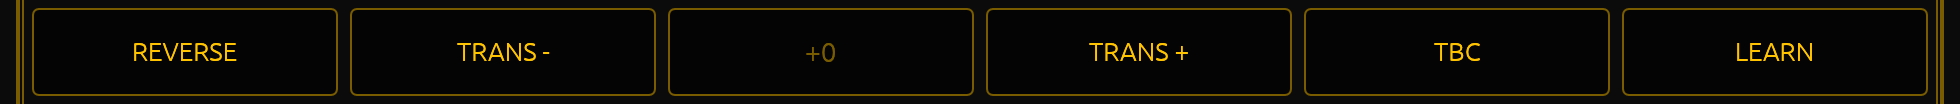
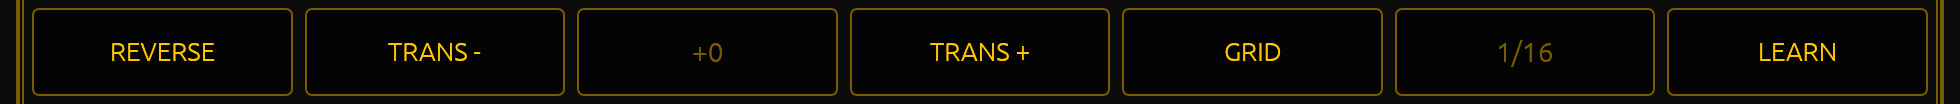
docs: the grid, and the demos that show it off

diff --git a/docs/guide/src/23-pattern-grids.md b/docs/guide/src/23-pattern-grids.md
@@ -1,0 +1,66 @@
+# Pattern grids
+
+A pattern is **one bar of 4/4** — and a bar can be divided three ways. Which division a pattern is on is its **grid**,
+and the grid belongs to the pattern: it is saved with it, copied with it and banked with it.
+
+| Grid | Steps to the bar | What it is for |
+|---|---|---|
+| `1/16` | 16 | sixteenths: the line everything before this existed on |
+| `1/32` | 32 | thirty-seconds: twice as fine, for fast rolls and broken slides |
+| `1/8T` | 12 | eighth-note triplets, which sit *off* the sixteenth grid rather than inside it |
+
+All three are **the same bar**: sixteen sixteenths, thirty-two thirty-seconds and twelve eighth-triplets last exactly as
+long as each other. That is what keeps every machine in a rack on the same bar — a `1/8T` line and a `1/16` drum machine
+still land their downbeats together, and a device joining a running rack still waits for the same bar.
+
+## The key
+
+
+
+In the transport row, beside the transpose pair: **`GRID`** and, next to it, the grid the pattern is on — `1/16`, `1/32`
+or `1/8T`.
+
+Press `GRID` to cycle the three. It is a **pattern edit**, not a transport setting: the pattern changes at once, the
+row changes shape with it — sixteen keys, or twelve, or thirty-two — and the session is marked unsaved, because the grid
+is part of the pattern and travels into the save file and the clipboard with it. The readout is dim at `1/16` and lit
+otherwise, so "this pattern is not on the plain grid" is visible at a glance.
+
+## What a press does to the steps outside the new bar
+
+A press that makes the bar **shorter** rests whatever falls outside it. Nothing is kept in hiding: a step the bar cannot
+hold is a rest the moment the bar narrows, and the status line says what it cost —
+
+```text
+32 TO 12 STEPS, 3 CLEARED
+```
+
+— the bar before and after, and how many of the steps that fell outside **had sound** in them. A press that loses nothing
+just says the length (`16 TO 32 STEPS`).
+
+A press that makes the bar **longer** adds steps at the end, all rests. The row grows with it, so the new steps have keys
+to land on.
+
+## The row and the beat
+
+![The row on a 1/32 pattern: thirty-two keys](img/35-grid.png)
+
+The row draws one key per step of the pattern's own grid, and the beat framing follows the grid: every fourth key is
+outlined at `1/16`, every eighth at `1/32`, every third at `1/8T` — a beat is a quarter note at every one of them.
+
+The drum machine's grid does the same with columns ([`22-the-drum-machine`](22-the-drum-machine.md)): a `1/32` pattern is
+thirty-two columns wide and a `1/8T` one twelve, framed on the beats of its own grid.
+
+## Elsewhere
+
+- **`CLEAR` keeps the grid.** It empties the bar; it does not leave it. A `1/32` pattern stays thirty-two steps long.
+- **`RANDOM` keeps the grid**, and rolls only the steps the bar holds.
+- **The bank and the song keep each pattern's grid**, pattern by pattern, so one bank can hold a sixteenth line next to a
+  triplet one.
+- **The clipboard carries it**: a copied pattern takes its grid with it, which is why a build older than this one refuses
+  a copied pattern instead of reading half of it.
+- **Shuffle leans whatever grid you are on.** Even steps long, odd steps short, the pair still exactly two steps — so the
+  bar does not change length at any swing setting, at any grid ([`10-performance-row`](10-performance-row.md)).
+- **A pattern change from a controller still lands at the bar line**, at every grid ([`11-the-bank`](11-the-bank.md)).
+
+Two of the demos are on the other grids — **Acid Jazz** on `1/8T`, **Fast Acid** on `1/32` — so you can hear what they are
+for before writing one ([`12-songs-and-demos`](12-songs-and-demos.md)).

diff --git a/docs/guide/src/img/README.md b/docs/guide/src/img/README.md
@@ -82,7 +82,7 @@ the build: the pictures are committed PNGs, and this note is what makes them rep
 | `img/running.png` | the transport running: `PLAY` lit in the tape deck, `PAUSE` dark | `space` from the first-sound state |
 | `img/help-card.png` | the help card over the panel: the arrows as two pairs (`shift+left` / `right` the pattern, `shift+up` / `down` the tempo, then the plain `left` / `right` and `up` / `down` for the face), the drum face's keys folded into those lines, and its two own lines — `h` and `l` / `b` / `p` | `F1` on the arrows round's session (below), pointer parked outside the window |
 | `img/settings-card.png` | the settings card, `MIDI IN` naming the port in use | `F2` |
-| `img/banks-card.png` | the bank browser, retaken this round: `NOW: New song - SAVED`, the five demo banks, `PATTERN BANKS` with one saved bank (`Easy`) and its `x`, the `bank name` field with `SAVE BANK`, `SONGS` with one saved song and its `x`, and `RACKS`' `SAVE RACK` / `LOAD RACK` | click `BANKS`; the bank row is a file seeded before the launch, because a first run has none |
+| `img/banks-card.png` | the bank browser, retaken for phase 6: `NOW: New song - UNSAVED`, the **seven** demo banks ending in `Acid Jazz` and `Fast Acid`, the `PATTERN BANKS` field with `SAVE BANK`, empty `SONGS`, and `RACKS`' `SAVE RACK` / `LOAD RACK` | click `BANKS` on a first run |
 | `img/device-card.png` | the device card for `ACID 1`: `COLOUR BLACK`, one port, `MUTE OFF` | `F3` |
 | `img/picker.png` | the picker: `ADD DEVICE` with the `ACID` and `DRUMS` rows and `CLOSE`, and nothing under them — retaken in the whole-rack round, when the line that said names and extra devices were not saved went away | click `+` at the strip's right end; park the pointer outside the window before grabbing |
 | `img/theme-list.png` | the card for `ACID 1` with the theme list open over it, the dot on `BLACK`, eleven of the twenty-two rows and the scroll thumb | `F3`; click `COLOUR`; park the pointer away from the knobs before grabbing, or their tooltip lands in the picture |
@@ -96,7 +96,8 @@ the build: the pictures are committed PNGs, and this note is what makes them rep
 | `img/knob-row.png` | the seven tone knobs and their captions | `-crop 1960x480+0+200` |
 | `img/step-row.png` | the sixteen step keys, their LEDs and their numbers | `-crop 1960x280+0+792` |
 | `img/switches.png` | `BANK PATTERN COPY PASTE SAVE BANKS STEP` | `-crop 1960x132+0+1056` |
-| `img/transport.png` | the row as the face draws it: `REVERSE TRANS - [+n] TRANS + TBC TBC LEARN` — the transport itself lives in the top band's tape deck | `-crop 1960x104+0+1192` |
+| `img/transport.png` | the row as the face draws it: `REVERSE TRANS - [+n] TRANS + GRID [1/16] LEARN` — the transport itself lives in the top band's tape deck | `-crop 1960x104+0+1192` |
+| `img/35-grid.png` | the step row on a `1/32` pattern: thirty-two keys, the notes and the corner numbers the player judged by eye | press `GRID` on a first run, then `-crop 1896x208+32+832` |
 
 The five band crops and `strip.png` come from the same session as `first-sound.png` (the strip crop from the two-device
 state, because one cell does not show what a strip is).

diff --git a/plans/phase 6/02-the-three-grids.md b/plans/phase 6/02-the-three-grids.md
@@ -369,3 +369,28 @@ command, as every other picture has.
   ride without the shuffle knob, and is the snare comping late enough to read as jazz; `Fast Acid`: do the
   thirty-second rolls land as a fill rather than a stutter, and does the kick on every eighth hold the bar together at
   152. A demo nobody has heard is not a demo, so this stays open until the player writes the two lines.
+
+- **Task 4 — the book, the pins and the pictures.** New page `23-pattern-grids` (what a grid is, the three and what each
+  is for, the `GRID` key and its readout, what a press costs outside the new bar and that the status line counts it,
+  the row and the beat, and the six things that keep a grid — `CLEAR`, `RANDOM`, the bank, the clipboard, shuffle, a
+  pattern change at the bar line), in `SUMMARY` under Part III after *Copying and pasting a pattern*, and
+  cross-referenced from `01`, `04`, `08`, `12` and `22`. The stale claims are edited in place: `01` (a bar of steps),
+  `04` and `20` (`GRID` and its readout instead of `TBC` twice), `08` (one bar divided by its grid), `09`/`10`/`16`
+  (the swing leans *the steps*, not sixteenths), `10` (`CLEAR` empties the bar's steps), `12` (seven demos, the two
+  new ones named), `18` (a device's own bar of steps), `21` (the clipboard carries the grid), `22` (the bar's steps).
+  `check.sh` gains `gone 'TBC'` and the pins `1/16`, `1/32`, `1/8T`, `GRID`, `Acid Jazz`, `Fast Acid`.
+  **Pictures:** `transport.png` retaken (the row now reads `REVERSE TRANS - +0 TRANS + GRID 1/16 LEARN` — no `TBC`),
+  `banks-card.png` retaken (seven demo rows, ending `Acid Jazz` and `Fast Acid`), and a new `35-grid.png` — the row at
+  thirty-two keys, `-crop 1896x208+32+832` from the layout's step band — with `img/README.md` updated for all three.
+  Taken on a fresh `Xvfb :86 -screen 0 2000x1400x24` (`getdisplaygeometry` → `2000 1400`, window `1960x1340`, a
+  throwaway `TAKKA_ACID_DATA_DIR`, pointer parked away from the panel). `./docs/guide/check.sh` → `guide: ok`.
+  **The manual check on the corner number, recorded as the plan asks.** `35-grid.png` was opened and read: at thirty-two
+  keys the corner number is legible at 8 pt (`1`..`32` along the bottom of each key, the two-digit values tight but
+  distinct) and the note sits above it in the key — a `C#5`-class label is the widest and still inside its key at the
+  design size; at the smallest window the keycap now shrinks the note to fit (Task 1's ruling), so the note is small
+  there but never spills. The player's own eye on the picture is the verdict this records toward, not a substitute for
+  it.
+  **Not taken: `35-drum-grid.png`.** It needs a second device (a drum machine) on a `1/8T` pattern, and the round's
+  picture budget went to the three that a stale face would have contradicted. `23-pattern-grids` therefore describes
+  the drum columns in prose and references none; the row's own picture carries the grid. Cost if wrong: the book has no
+  picture of twelve drum columns until the player takes one.

diff --git a/docs/guide/src/12-songs-and-demos.md b/docs/guide/src/12-songs-and-demos.md
@@ -5,12 +5,13 @@ keys along the bottom. It keeps three different amounts of work: a **song** is t
 patterns and the machine they were written on, and a **rack** is a document of its own that this build only has keys for.
 
 ## The four lists
-**`DEMO BANKS`** are the five that ship inside the app: **Slow Acid**, **Hard Techno Acid**, **Blues**, **Rock** and
-**Funk**. They are read-only — there is no way to overwrite one — and each is a patch plus eight patterns in `A1` to `A8`
+**`DEMO BANKS`** are the seven that ship inside the app: **Slow Acid**, **Hard Techno Acid**, **Blues**, **Rock**,
+**Funk**, **Acid Jazz** (a `1/8T` triplet line) and **Fast Acid** (a `1/32` one). They are read-only — there is no way to
+overwrite one — and each is a patch plus eight patterns in `A1` to `A8` ([`23-pattern-grids`](23-pattern-grids.md))
 ([`11-the-bank`](11-the-bank.md)). Clicking one loads it as a **new** song: named `New song`, not yet on disk — its name
 sits in amber until you save it, which is how the face says "not yet written".
 
-On a drum machine the same five rows load that demo's **drum bank** instead: eight grooves into `A1` to `A8`, at the
+On a drum machine the same seven rows load that demo's **drum bank** instead: eight grooves into `A1` to `A8`, at the
 demo's tempo and shuffle, with that machine's kit and the session's name left exactly as they were. The tempo is the whole
 rack's, though — one cell, every machine on it — so loading a bank also retunes the 303s beside it, and that tempo, unlike a
 second device's grooves, is what a save keeps. A drum bank is patterns, not a song — nothing is renamed and no sound is loaded with it.

diff --git a/docs/guide/src/08-writing-steps.md b/docs/guide/src/08-writing-steps.md
@@ -1,6 +1,7 @@
 # Writing steps
 
-A pattern is **sixteen steps**. Each step is either a rest or a note; the first row below is the step itself, and the
+A pattern is **one bar**, divided by its grid: sixteen steps at `1/16`, twelve at `1/8T`, thirty-two at `1/32`
+([`23-pattern-grids`](23-pattern-grids.md)). Each step is either a rest or a note; the first row below is the step itself, and the
 other five are what a note carries:
 
 | Part | What it is |
@@ -50,7 +51,7 @@ While you are in the step row, the **arrows** move the selection — `left` / `r
 selected note by a step — `enter` turns the step on and off, and `backspace`, while you are editing, empties it to a rest.
 
 **`STEP`** is the mode that makes typing a line quick: with it on, a key **down** writes the note to the selected step and
-the key **up** walks the selection on by one. Type a phrase left to right and the sixteen steps fill in behind your
+the key **up** walks the selection on by one. Type a phrase left to right and the bar's steps fill in behind your
 fingers. Press `STEP` again to stop walking.
 
 `CLEAR` empties the whole pattern, and it takes two clicks: the key reads `CLEAR?` for a few seconds in between, and any

diff --git a/docs/guide/src/16-sound-like-acid.md b/docs/guide/src/16-sound-like-acid.md
@@ -41,7 +41,7 @@ always cut off down, not resonance down.
 
 ## One line, not chords
 
-Sixteen steps, one voice. Write a phrase a bass player could play with one finger: a few notes, a couple of octave jumps,
+A bar of steps, one voice. Write a phrase a bass player could play with one finger: a few notes, a couple of octave jumps,
 a rest where you want the breath. Sparse lines carry the accent and the slide much better than busy ones; a step row full
 of notes is a step row with nowhere to put emphasis.
 
@@ -49,7 +49,7 @@ A good test: hum the line. If you can, it will sound like a bass line. If you ca
 
 ## Shuffle late, not early
 
-Swing leans the offbeat back. A little of it — the knob just off zero — is what makes a straight sixteenth line feel like
+Swing leans the offbeat back. A little of it — the knob just off zero — is what makes a straight line feel like
 it is being played rather than generated. Too much and the line limps; the groove has to stay a groove.
 
 And it is a seasoning, not an ingredient: start straight, and push `SHUFFLE` up when the line needs a lift, rather than

diff --git a/docs/guide/src/01-what-it-is.md b/docs/guide/src/01-what-it-is.md
@@ -3,8 +3,8 @@
 takka-acid is a bass synthesizer built to do one thing: play a single acid line, very well — and, in the same window, a drum
 machine to play it over.
 
-One device is **one voice** (the 303) or **sixteen of them** (the drums), and **sixteen steps**: that is the whole machine.
-You write a bar of up to sixteen steps, you shape the sound, and the same sixteen steps play it. The 303 is a line of
+One device is **one voice** (the 303) or **sixteen of them** (the drums), and **a bar of steps**: that is the whole machine.
+You write a bar of steps, you shape the sound, and the same steps play it — sixteen of them, or twelve, or thirty-two ([`23-pattern-grids`](23-pattern-grids.md)). The 303 is a line of
 notes and the drum machine is a grid of strikes, but they are the same bar, the same clock, the same bank and the same
 transport — [`22-the-drum-machine`](22-the-drum-machine.md) is the second machine. 64 patterns sit in **eight banks of
 eight** — `A1` through `H8` — so a whole night of lines fits in one session.

diff --git a/docs/guide/src/10-performance-row.md b/docs/guide/src/10-performance-row.md
@@ -38,11 +38,11 @@ Every roll is a brand-new line, so there is no undo. Save first if what you have
 ## The row while the line runs
 
 All three groups work with the transport running, and that is how they are meant to be used: octave the second bar, roll
-a new line for the break, nudge the shuffle until the sixteenths sit where you want them.
+a new line for the break, nudge the shuffle until the steps sit where you want them.
 ## `CLEAR`
 
 The row's only destructive key, and it asks twice: the first click arms it and the key itself says `CLEAR?`, the second
-empties the sixteen steps. An arm goes stale after a couple of seconds, and anything that changes the pattern — a step, an
+empties the bar's steps. An arm goes stale after a couple of seconds, and anything that changes the pattern — a step, an
 octave move, a `RANDOM`, a pattern switch — disarms it, so the second click always means the empty you were just asked about.
 [`08-writing-steps`](08-writing-steps.md) covers it beside the step keys, which is where it began.
 

diff --git a/docs/guide/src/20-reference.md b/docs/guide/src/20-reference.md
@@ -49,7 +49,7 @@ Three tables and the files: every gesture, the factory controller map, and the w
 | `Ctrl+C` / `Ctrl+V` | copy the pattern on the panel / paste one into it |
 | `escape` | close the topmost card — the picker, the device card, the kit browser, settings, help, the bank browser — then give up on a `LEARN` |
 
-**The panel's own keys:** `REVERSE`, `TRANS -`, the transpose's readout, `TRANS +` and `TBC` twice, then `LEARN`, in the
+**The panel's own keys:** `REVERSE`, `TRANS -`, the transpose's readout, `TRANS +`, `GRID` and the grid's readout, then `LEARN`, in the
 bottom row; `OCT -` `OCT +` `CLEAR` `RANDOM` in the performance row's left cluster, with `SHUFFLE`, density and scale at its
 right; `SAVE` `BANKS` `STEP` `COPY` `PASTE` in the switch row (`BANK` and `PATTERN` are engraved and do nothing yet).
 **The strip above the panel:** a click on a cell selects that device, its `M` mutes it, and `+` at the right end adds one.

diff --git a/docs/guide/src/04-the-face.md b/docs/guide/src/04-the-face.md
@@ -67,7 +67,7 @@ learned controller instead ([`11-the-bank`](11-the-bank.md)).
 
 ![The transport](img/transport.png)
 
-**`REVERSE`**, **`TRANS -`** and **`TRANS +`** with the transpose's own readout between them, **`TBC` twice**, and
+**`REVERSE`**, **`TRANS -`** and **`TRANS +`** with the transpose's own readout between them, **`GRID`** and the grid's readout, and
 **`LEARN`**. `REVERSE` is this device's direction and the transpose pair moves **the device on the panel** — the readout
 between the two keys is that device's, and a second machine keeps its own; `LEARN` is how a MIDI
 controller gets taught a control ([`14-midi`](14-midi.md)). The deck above is the transport

diff --git a/docs/guide/src/22-the-drum-machine.md b/docs/guide/src/22-the-drum-machine.md
@@ -2,7 +2,7 @@
 
 ![The drum machine's face](img/drum-face.png)
 
-A second kind of device, in the same rack and on the same bar: **sixteen sample voices against the sixteen steps**, where
+A second kind of device, in the same rack and on the same bar: **sixteen sample voices against the bar's steps**, where
 the 303 has one voice against the same sixteen. Add one with `+` on the strip and pick `DRUMS`
 ([`18-a-rack-of-devices`](18-a-rack-of-devices.md)); everything a rack does — the transport, the tempo, `REVERSE`, that
 device's own transpose, the themes — it does to the drums the same way ([`05-the-three-cards`](05-the-three-cards.md) is the

diff --git a/docs/guide/src/18-a-rack-of-devices.md b/docs/guide/src/18-a-rack-of-devices.md
@@ -35,7 +35,8 @@ answers, so a click says the rack is full rather than doing nothing.
 
 Each device is a whole machine, not a subset of one:
 
-- **its own sixteen steps** and its own **sixty-four patterns** in eight banks of eight;
+- **its own bar of steps** — sixteen, twelve or thirty-two, at the pattern's own grid — and its own **sixty-four patterns** in
+  eight banks of eight;
 - its own **seven knobs** and volume;
 - its own **shuffle**, its own octave transpose, its own `RANDOM` density and scale;
 - its own **MIDI inputs** — which of the open ports it hears, on which channel, and whether it plays notes or only answers
